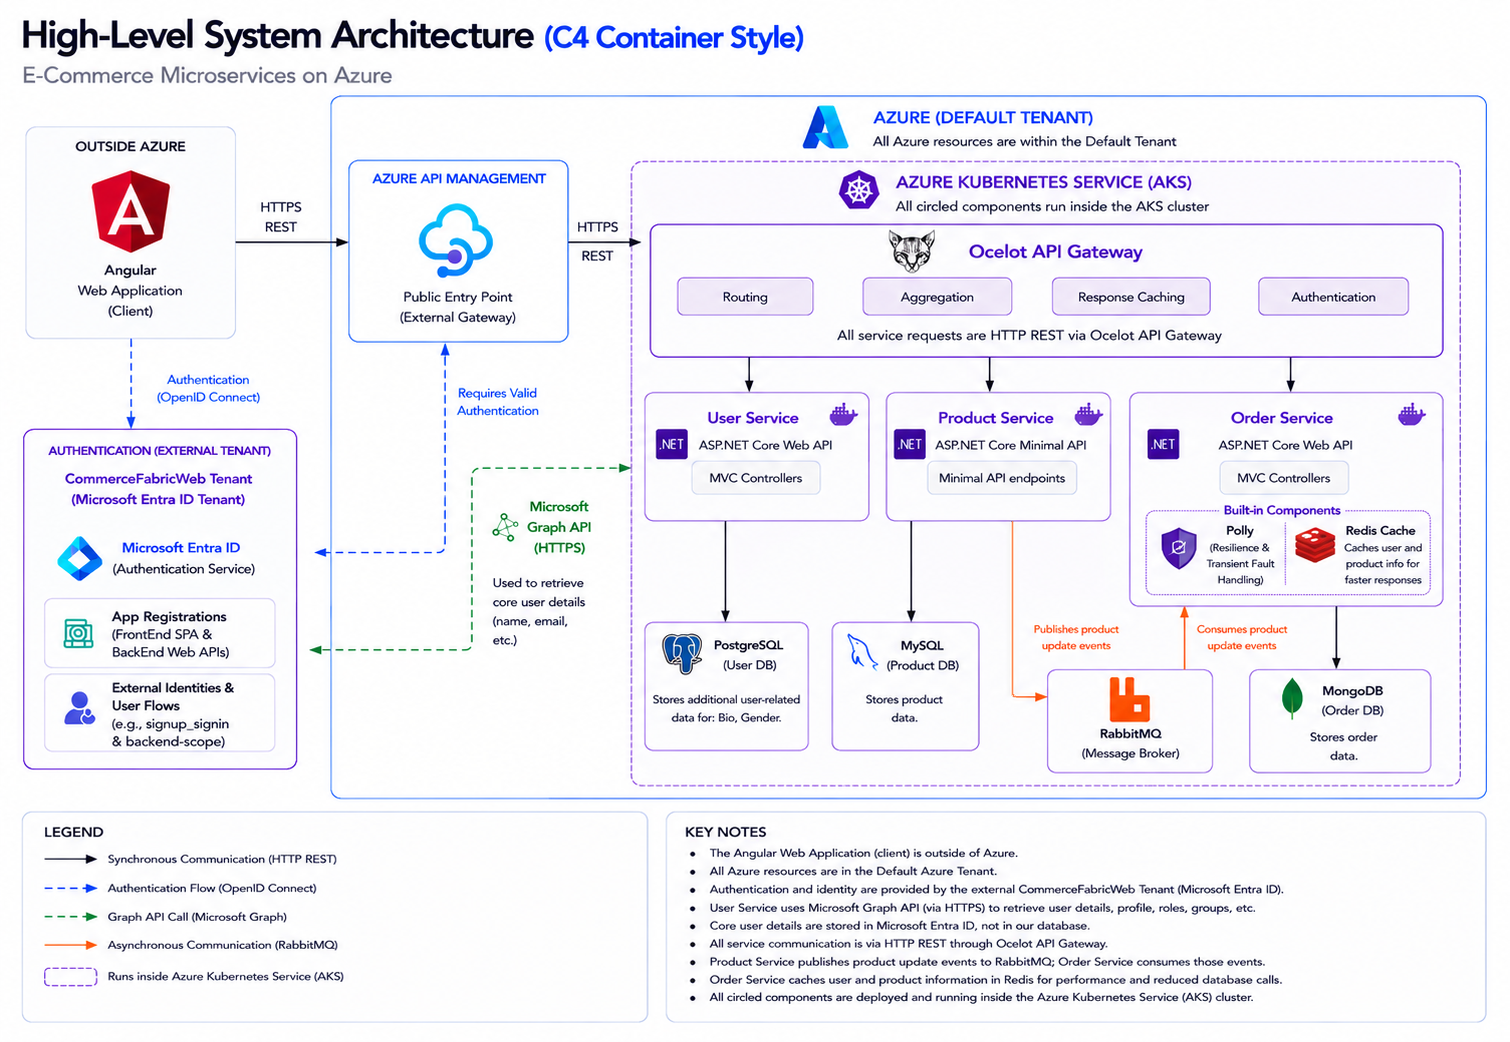
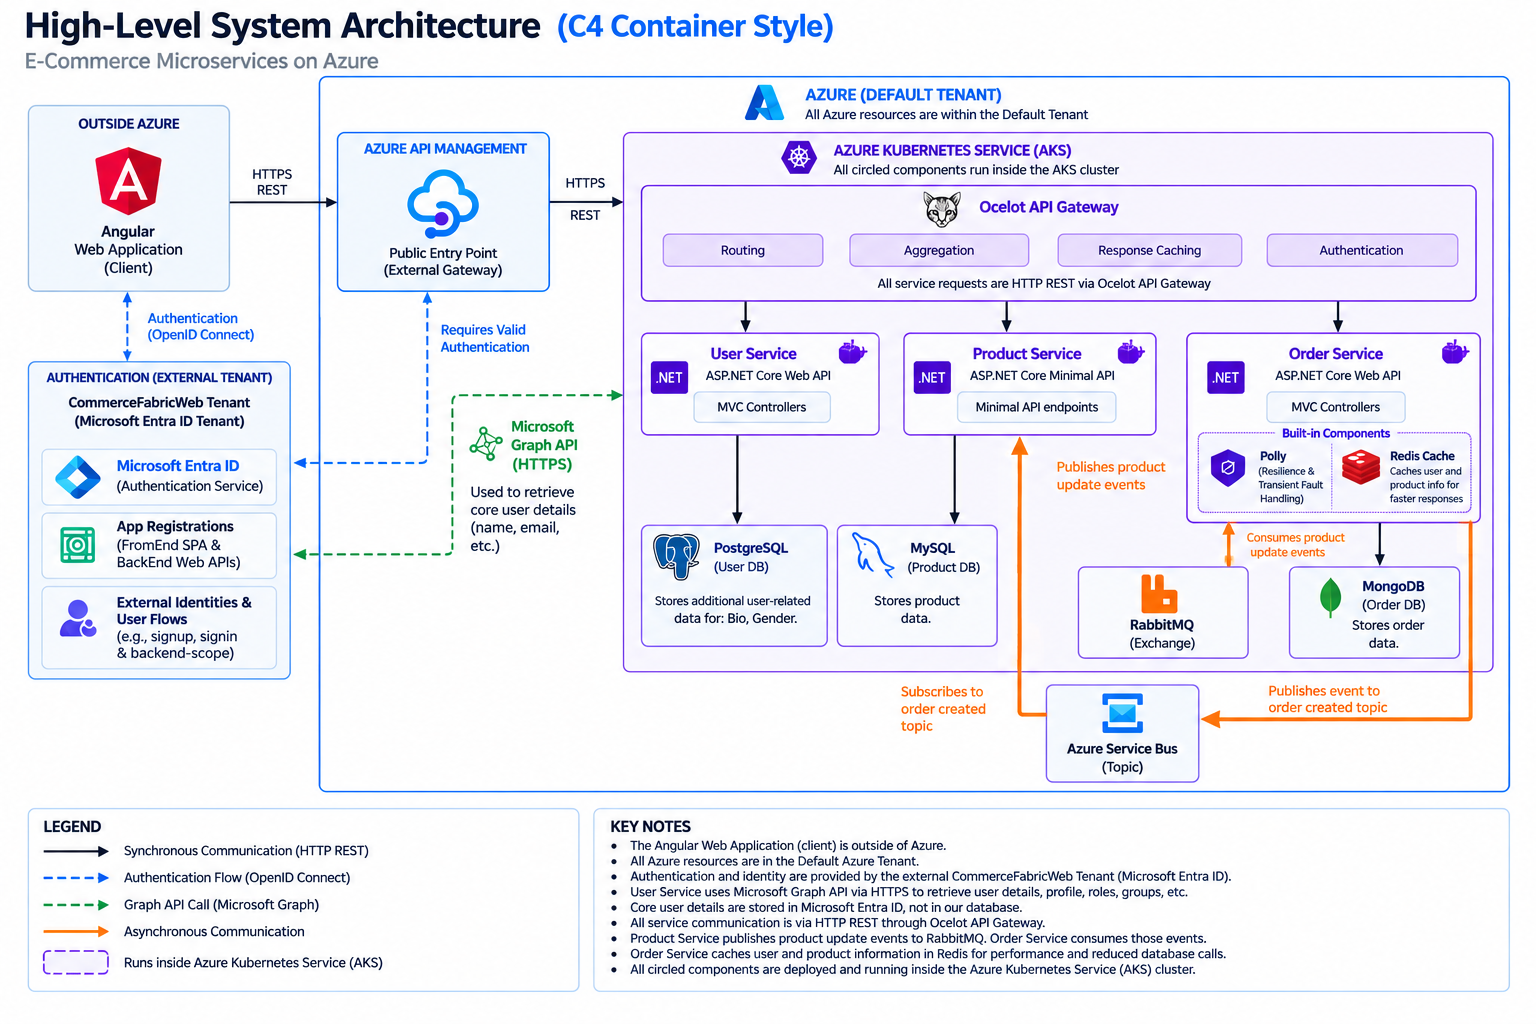
chore: update readme with new diagram and explanation for azure service bus

Changed region(s): [[0.0, 0.0, 0.996, 0.9688], [0.0, 0.7812, 0.249, 0.9688], [0.9649, 0.9375, 0.996, 0.9688]]

diff --git a/profile/README.md b/profile/README.md
@@ -16,11 +16,15 @@ CommerceFabric is a portfolio project exploring distributed systems and microser
 
 This project is an Azure-hosted e-commerce platform built using a microservices architecture and deployed on Azure Kubernetes Service (AKS). Client requests originate from an Angular web application and are authenticated through a dedicated Microsoft Entra ID tenant before being routed through Azure API Management and the Ocelot API Gateway.
 
-Within the AKS cluster, the platform consists of independently deployable User, Product, and Order services built with ASP.NET Core. Each service owns its own data store following the database-per-service pattern: PostgreSQL for user-related data, MySQL for product data, and MongoDB for order data. Services communicate synchronously through REST APIs and asynchronously through RabbitMQ for event-driven workflows.
+Within the AKS cluster, the platform consists of independently deployable User, Product, and Order services built with ASP.NET Core. Each service owns its own data store following the database-per-service pattern: PostgreSQL for user-related data, MySQL for product data, and MongoDB for order data. Services communicate synchronously through REST APIs and asynchronously using both RabbitMQ and Azure Service Bus. 
+
+When a new order is successfully created, the Order Service publishes an **Order Created event to an Azure Service Bus Topic**. The Product Service subscribes to this topic and processes the event asynchronously, reducing the stock levels of the products included in the order. A **Topic** was chosen rather than a simple queue to support a publish/subscribe model and make the architecture easier to extend. For example, future Payment and Notification services could independently subscribe to the same Order Created events, allowing a Payment Service to initiate payment processing and a Notification Service to send order confirmation notifications without introducing direct dependencies between these services and the Order Service. If the Product Service fails to lower its stock levels it moves the message to a **dead-letter queue** for later investigation, ensuring that the Order Service remains decoupled from the Product Service and can continue processing new orders without being blocked by failures in downstream services.
+
+On Product Updation and Product Deletion, both RabbitMQ and Azure Service Bus are used to publish events that are consumed by the Order Service to update or delete its redis cache of product information. This ensures that the Order Service maintains an up-to-date view of product availability and pricing without introducing tight coupling between services. (Note: In a real-world implementation, you would typically choose either RabbitMQ or Azure Service Bus for asynchronous messaging, but both are included here to demonstrate experience with both self-hosted and Azure-managed messaging technologies.)
 
 Authentication and identity management are handled by a separate Microsoft Entra ID tenant, while the User Service integrates with Microsoft Graph to retrieve user profile information, roles, and group memberships. The Order Service leverages Redis caching to reduce repeated lookups of user and product information and uses Polly to provide resilience through retry and transient fault-handling policies when communicating with external services.
 
-This architecture promotes scalability, fault isolation, independent deployment, and clear service ownership, while Azure API Management and Ocelot provide a centralized entry point for security, routing, and API governance.
+This architecture promotes scalability, fault isolation, independent deployment, and clear service ownership. The combination of synchronous REST communication and asynchronous event-driven messaging also demonstrates how services can remain loosely coupled while supporting workflows that span multiple domains. Azure API Management and Ocelot provide centralized entry points for security, routing, and API governance, while Azure Service Bus Topics provide an extensible event-driven foundation for adding additional consumers as the platform evolves.
 
 ### Key Technologies
 
@@ -78,6 +82,8 @@ The goal of the project is to demonstrate practical cloud-native architecture pa
 ## Future Directions
 
 - Add an Azure Front Door so it can be region balanced
-- Add Teraform scripts for Infrastructure as Code so the subscription + resources can be deleted when I'm not working on it to save money.
+- **Add Terraform scripts** for Infrastructure as Code so the subscription + resources can be deleted when I'm not working on it to save money.
 - Add `[Authorize]` decorators to the required API methods so API methods themselves are protected (incase an attacker gains access to the internal ocelot api gateways IP) instead of relying on the auth being enforced on the external api gateway
 - Switch from AKS to ACA as it simplifies the complexity + allows for scale down to 0 to reduce costs
+- Add another AzureServiceBus topic for Order Success events, so after the product service attempts to reduce stock, it can publish an event to the Order Service to mark the order as successful (or failed).
+- Potentially add an Azure Function to monitor the dead-letter queue and send an alert to, for example, Teams channel if messages are being sent there, so that the team can investigate and resolve issues quickly.
